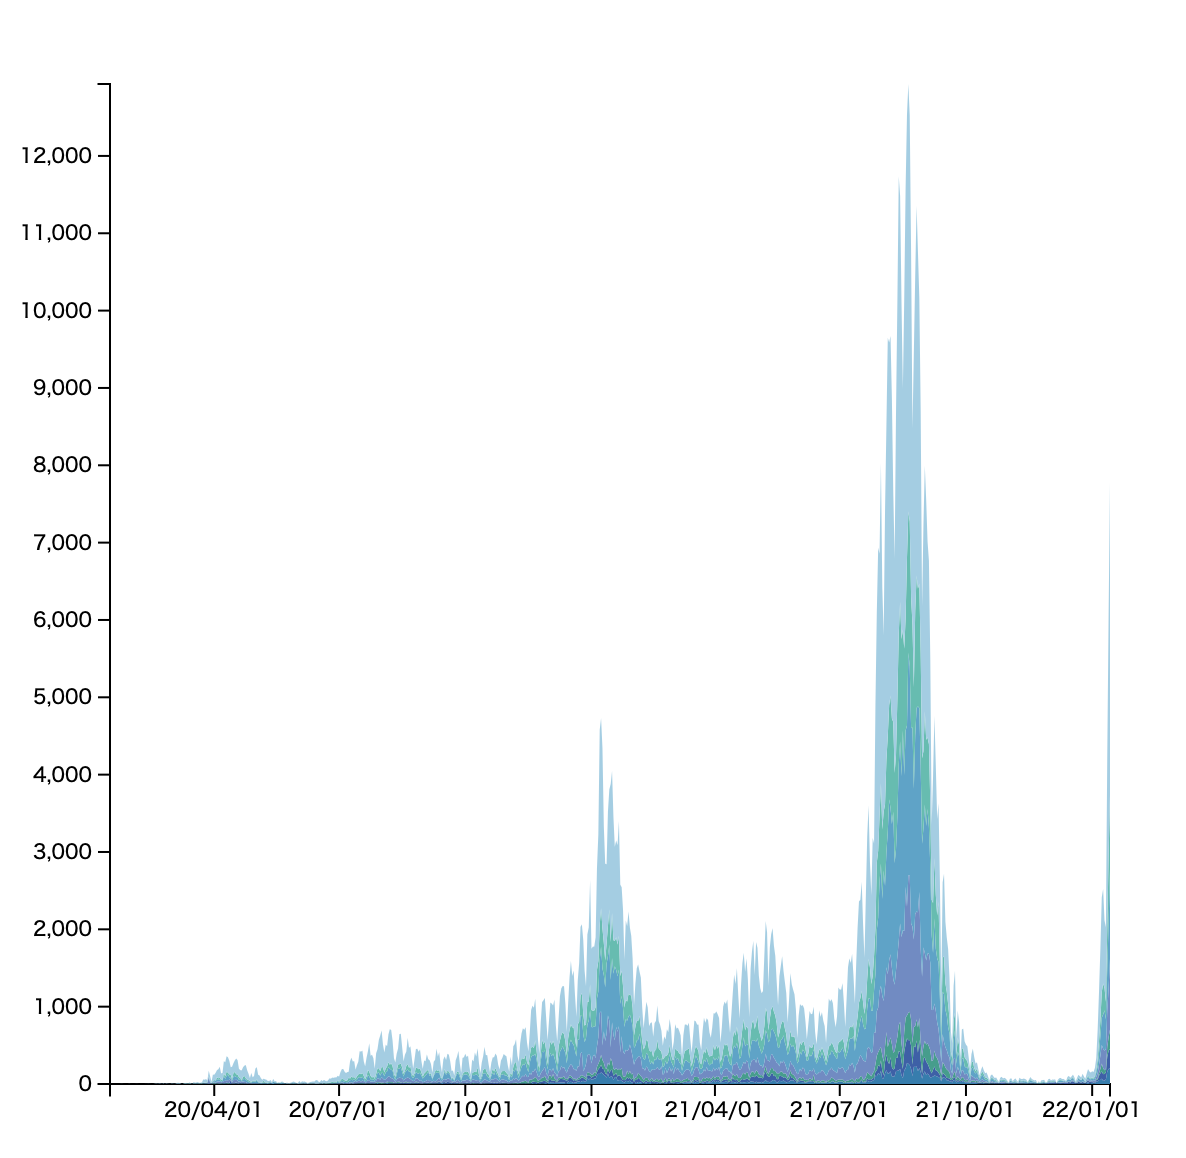
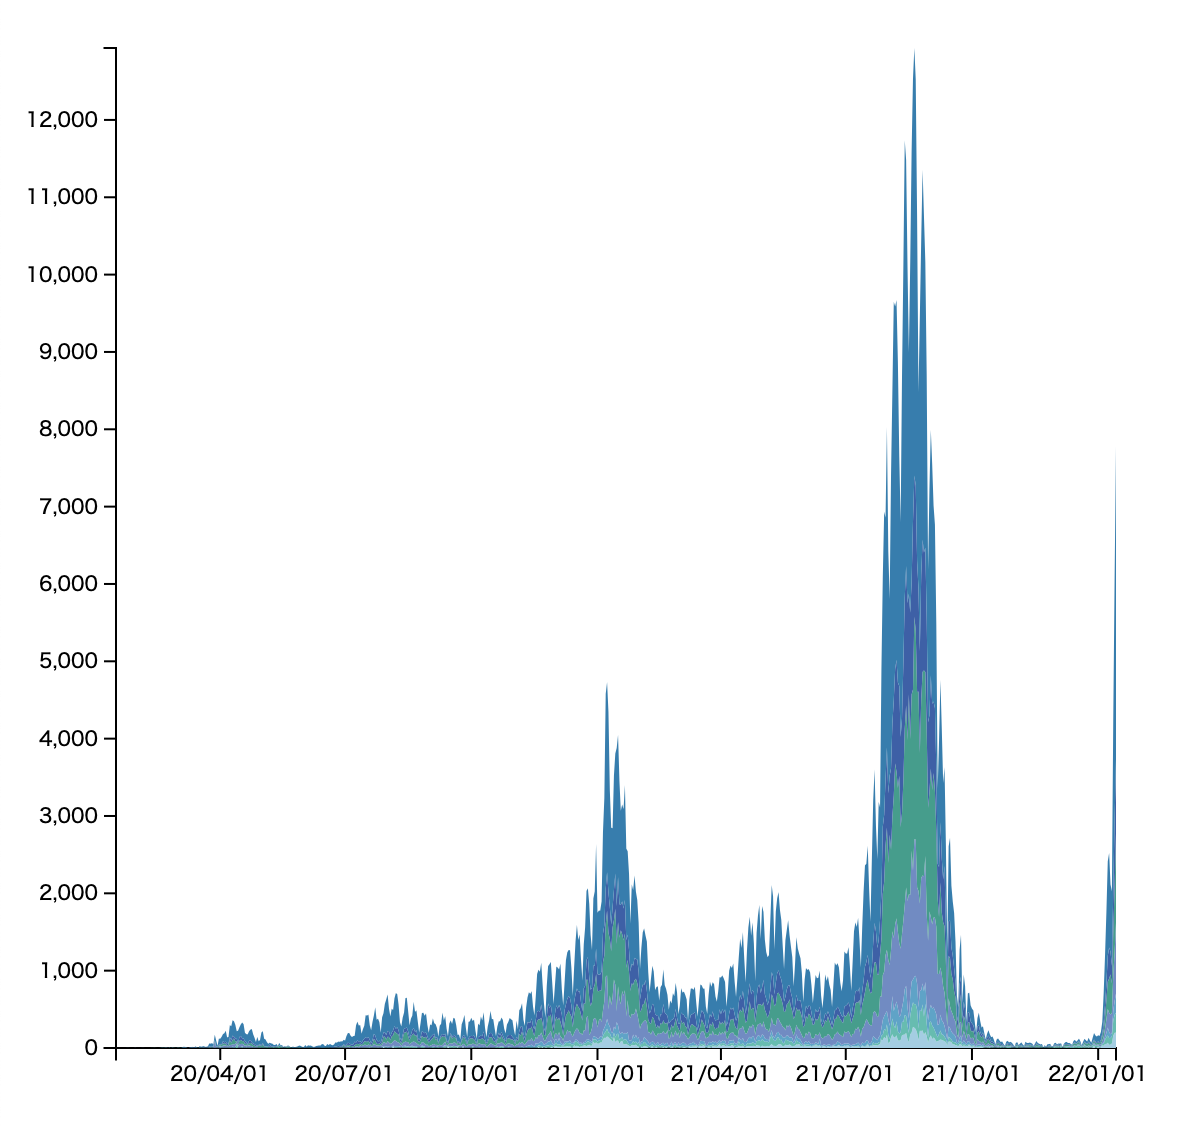
update

diff --git a/src/main.ts b/src/main.ts
@@ -64,7 +64,8 @@ function draw(data: DSVRowArray): void {
 
     const colorScale = d3.scaleOrdinal()
         .domain(keys)
-        .range(["#007FB1", "#3261AB", "#009F8C", "#6A8CC7", "#44A5CB", "#40BFB0", "#99CFE5"]);
+        .range(["#99CFE5", "#40BFB0", "#44A5CB", "#6A8CC7", "#009F8C", "#3261AB", "#007FB1"]);
+        // .range(["#007FB1", "#3261AB", "#009F8C", "#6A8CC7", "#44A5CB", "#40BFB0", "#99CFE5"]);
 
     // 面を作成
     const area: any = d3.area()
